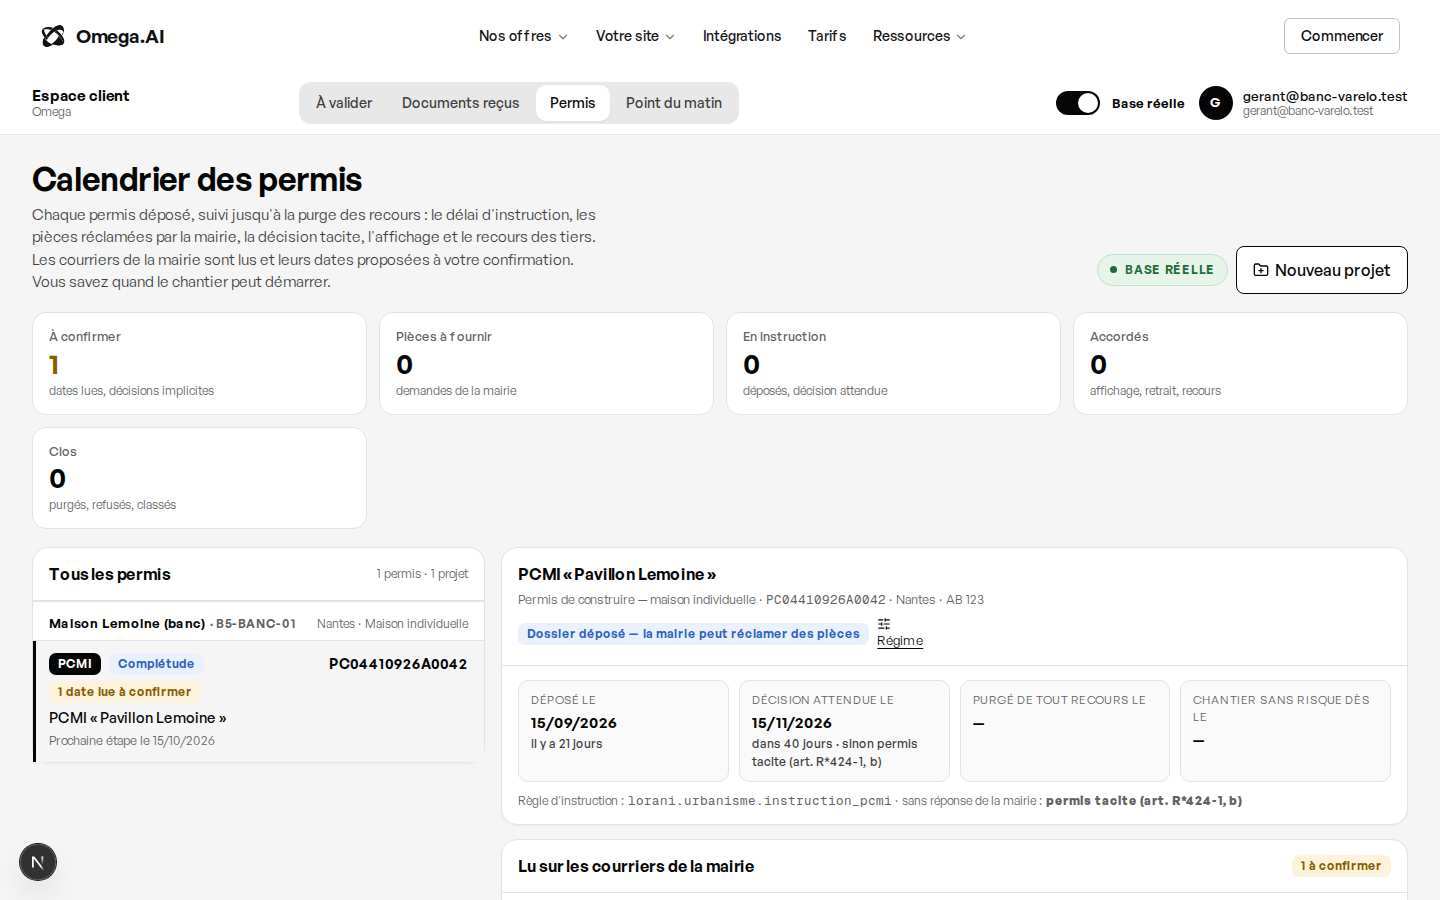
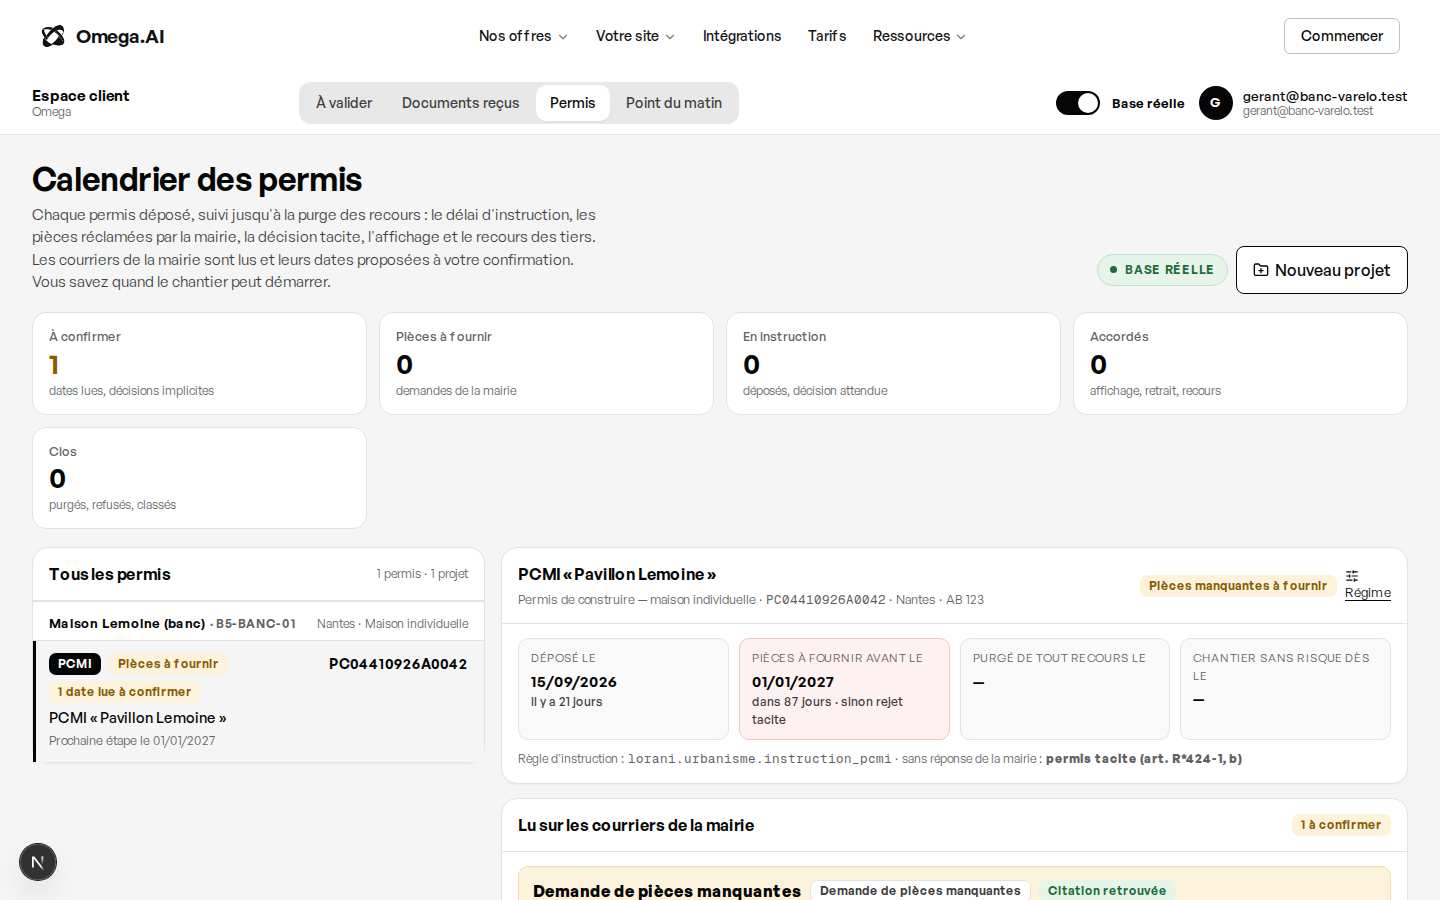
NOTES-B5 : chaîne réelle complète pour la demande de pièces (v3 lue, [PCMI3, PCMI6] proposée et confirmée) ; jauges ; captures
Claude-Session: https://claude.ai/code/session_018iNiXjY8eWmMjaGrXSGgma

diff --git a/omega/NOTES-B5.md b/omega/NOTES-B5.md
@@ -7,8 +7,8 @@ Dernière mise à jour : 05/10/2026, 23 h.
 
 | Jauge | Valeur | Ce qui la fait monter |
 |---|---|---|
-| **Mécanique** (le socle fait ce que la page promet, prouvé par des tests joués sur la recette) | 90 % (**111/111** à 9ba2900, b5_01 à b5_04 posées sur la recette) | b5_01 à b5_03 posés sur la recette ; test pgTAP joué par le coordinateur : **110/111** (20 étapes : projet, équipe, RLS, lecture simulée par les portes du lecteur, confirmation, échéances dans `delais`, rappel J-10 par `controler_delais` → alerte → envoi `a_valider` au chef de projet, décision tacite, affichage, recours, purge, mesures, journal) ; les deux rouges corrigés (b5_04 + lecture du point) : **111/111 le 06/10 à 0 h 01 Z** ; manque : le lecteur réel ne connaît pas les types Lorani (spécification écrite, à A1) |
-| **Livrable client** (un gérant d'agence ouvre /espace/lorani et suit un vrai permis) | 85 % (**en ligne** sur https://omegaai.fr/espace/lorani depuis le 06/10, 0 h 52) | écran recetté aux cinq largeurs (41 contrôles), **relu en base réelle** avec `gerant@banc-varelo.test` : projet et PCMI créés par l'écran, calendrier calculé par le socle, **un vrai récépissé déposé et lu par le lecteur** (mais rendu « courrier non reconnu », voir § 3) ; fusion sur `main` en cours chez le coordinateur ; reste la vérification sur omegaai.fr et le rejeu du dépôt réel quand le lecteur connaît les types |
+| **Mécanique** (le socle fait ce que la page promet, prouvé par des tests joués sur la recette) | 95 % (114/114 le 06/10 à 2 h 05 Z, b5_05 et b5_06 posées ; avant :) 90 % (**111/111** à 9ba2900, b5_01 à b5_04 posées sur la recette) | b5_01 à b5_03 posés sur la recette ; test pgTAP joué par le coordinateur : **110/111** (20 étapes : projet, équipe, RLS, lecture simulée par les portes du lecteur, confirmation, échéances dans `delais`, rappel J-10 par `controler_delais` → alerte → envoi `a_valider` au chef de projet, décision tacite, affichage, recours, purge, mesures, journal) ; les deux rouges corrigés (b5_04 + lecture du point) : **111/111 le 06/10 à 0 h 01 Z** ; manque : le lecteur réel ne connaît pas les types Lorani (spécification écrite, à A1) |
+| **Livrable client** (un gérant d'agence ouvre /espace/lorani et suit un vrai permis) | 92 % (06/10, 2 h 10 Z : récépissé et demande de pièces réels lus par le lecteur, proposés, confirmés par l'écran ; avant :) 85 % (**en ligne** sur https://omegaai.fr/espace/lorani depuis le 06/10, 0 h 52) | écran recetté aux cinq largeurs (41 contrôles), **relu en base réelle** avec `gerant@banc-varelo.test` : projet et PCMI créés par l'écran, calendrier calculé par le socle, **un vrai récépissé déposé et lu par le lecteur** (mais rendu « courrier non reconnu », voir § 3) ; fusion sur `main` en cours chez le coordinateur ; reste la vérification sur omegaai.fr et le rejeu du dépôt réel quand le lecteur connaît les types |
 
 **Ce qui manque** : le lecteur (A1) doit apprendre les six types de courriers Lorani (`omega/modules/lorani/CHAMPS-LECTURE-LORANI.md`) ;
 la fusion dans `main` ; la vérification sur omegaai.fr. **Ce que Teo doit fournir** : rien pour l'instant ; pour que
@@ -238,4 +238,12 @@ Ouvert : le TAP du test à 5a4a2e6 (en cours chez le coordinateur) ; la fusion d
   Essayé en local (table `pieces_valeurs` réduite) : tableau → [PCMI3, PCMI6] ; deux lignes → [PC5, PC8] dans l'ordre
   des boîtes. Test, étape 7 : la demande de pièces s'écrit désormais en une ligne `["PC5", "PC 8"]` (vraie chaîne
   `enregistrer_lecture` → `lorani_lectures_passage`). Fiche `CHAMPS-LECTURE-LORANI.md` ligne 23 : une seule forme écrite.
+- 06/10, 2 h 05 Z (coordinateur) : b5_06 posé **depuis 24ea9b0** (pas encore fcd1b1a, messages croisés), `^test_b5_`
+  **114/114** ; lecteur A1 en version 17 (worker-a1 0d54731).
+- 06/10, 2 h 05–2 h 10 Z : **troisième dépôt réel, la chaîne complète passe.** `demande-pieces-v3.pdf` (pièce
+  2bfb560c…) : `Lue` à 35 s, proposition à 247 s « Date de la demande : 01/10/2026 — Pièces réclamées : PCMI3, PCMI6 »
+  (citations « Nantes, le 01/10/2026 », « - PCMI 3 : plan en coupe… »), confirmée par l'écran. Relu sous RLS avec la
+  session du gérant : permis 56c88739… `pieces_demandees`, numéro PC04410926A0042, dépôt 2026-09-15, demande
+  2026-10-01, `pieces_demandees = [PCMI3, PCMI6]` ; échéance `pieces` au 2027-01-01, ouverte, rappels [10, 3, 0].
+  Reste sur le banc la proposition vide confirmée à 1 h 40 (pièce 1c55b927…), donnée de recette.
 
